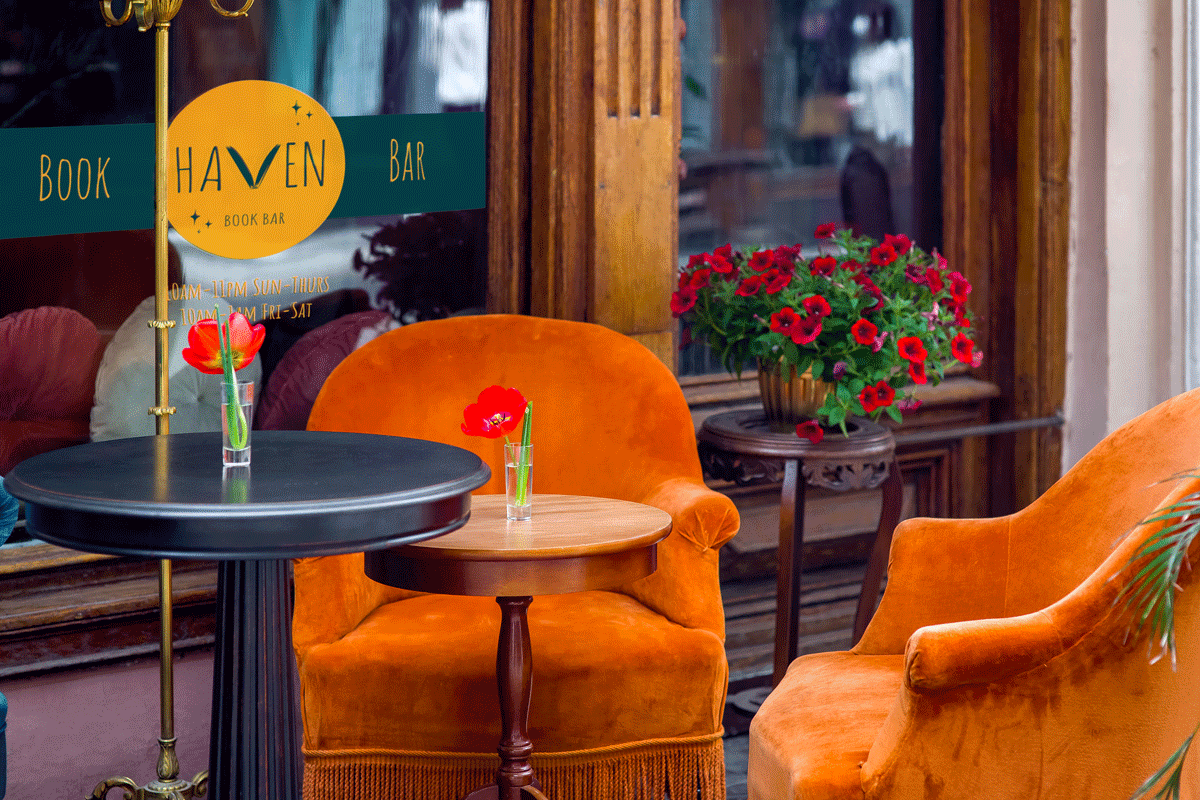
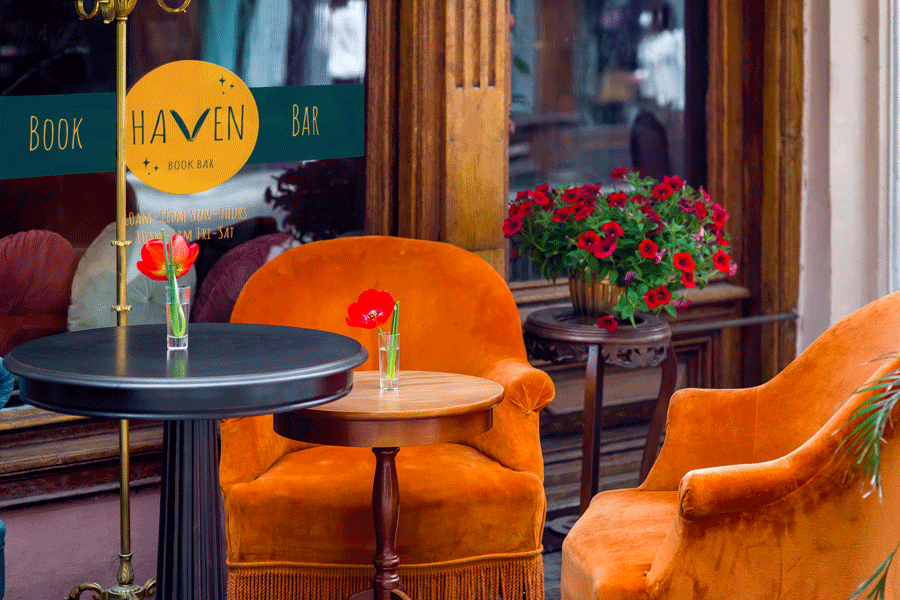
formatting project page

diff --git a/projectpages/haven-page.html b/projectpages/haven-page.html
@@ -2,14 +2,15 @@
 <head>
     <meta charset="UTF-8">
     <meta name="viewport" content="width=device-width, initial-scale=1.0">
-    <link rel="shortcut icon" type="image/png" href="Images/logofavicon.png">
+    <link rel="stylesheet" type="text/css" href="css/normalize.css">
     <link rel="stylesheet" href="merit25.css">
+    <link rel="stylesheet" type="text/css" href="../css/projectpages.css">
+    <link rel="shortcut icon" type="image/png" href="Images/logofavicon.png">
     <link rel="stylesheet" href="https://fonts.googleapis.com/css?family=Amatic SC">
     <title>Haven Environmental Design</title>
 
 </head>
     <body>
-        <div class ="page_container">
         <!--TOP NAV-->
         <div class="head">
             <h1>Emily Morrison Weeks</h1>
@@ -32,8 +33,8 @@
                 }
             }
         </script>
-    <img src="../Images/book bar mood.png" class="responsive">
-    <div class="objective and inspiration">
+    <img src="../Images/book-bar-mood.png" class="responsive">
+    <div class="objectiveandinspiration">
         <h2>Objective and Inspiration</h2>
         <p><strong>WHAT:</strong>Environmental design for a fictional restaurant
         </p>
@@ -44,9 +45,10 @@
             tasked me with creating the branding, signage, and additional assets for a fictional
             restaurant.
         </p>
-             I took my inspiration from a book bar in Madison, WI called Leopold’s Cafe. From
+        <p> I took my inspiration from a book bar in Madison, WI called Leopold’s Cafe. From
              there, I deepened my research, looking at the branding and business models of
             other book bars in cities such as New York and Minneapolis.
+        </p>
         <p>
             I loved the idea of creating a space where introverts and extroverts alike could
             find a cozy reading nook or meet up with friends. My restaurant would serve
@@ -88,10 +90,10 @@
   </div>
   <div class="outcome">
         <h2>Outcome | Signage</h2>
-        <img src="../Images/havenfinalindoorchalkboard.png" alt="indoor chalk board signage for haven" class="responsive">
         <img src="../Images/finalhavenoutdoorchalkboard.png" alt="outdoor chalk board signage for haven" class="responsive">
         <img src="../Images/finalhavenstreetsign.png" alt="outdoorsignage for haven" class="responsive">
         <img src="../Images/glasssignwithchairs.png" alt="glass signage" class="responsive">
+        <img src="../Images/havenfinalindoorchalkboard.png" alt="indoor chalk board signage for haven" class="responsive">
         <p>
             Hanging street signage, outdoor and indoor chalkboard signage, and
             glass window signage were created.
@@ -109,16 +111,18 @@
             books have the pages removed and replaced with menu pages. The covers of the
             books are embossed with the Haven logo.
         </p>
-
-        <img src="../Images/Haven Brunch Menu-1.png" alt="brunch menu for haven" class="responsive">
-        <img src="../Images/Haven Evening Food Menu-1.png" alt="dinner menu for haven" class="responsive">
-        <img src="../Images/Haven Drink Menu-1.png" alt="drink menu for haven" class="responsive">
-        
+        <div class="menus">
+        <img src="../Images/Haven-Brunch-Menu-1.png" alt="brunch menu for haven" class="responsive">
+        <img src="../Images/Haven-Evening-Food-Menu-1.png" alt="dinner menu for haven" class="responsive">
+        <img src="../Images/Haven-Drink-Menu-1.png" alt="drink menu for haven" class="responsive">
+        </div>
         <p>
             The inner pages of the menu feature a watercolor border, a callback to the arts
             and literature heart of the restaurant. Over the watercolor are some gold flecks to
             tie it together with the gilded cover.
         </p>
+
+        <img src="../Images/havencofffee.png" alt="a bag of whole bean coffee with yellow Haven logo on it"class="responsive">
   </div>
    
     

diff --git a/index.html b/index.html
@@ -2,9 +2,9 @@
 <head>
     <meta charset="UTF-8">
     <meta name="viewport" content="width=device-width, initial-scale=1.0">
-    <link href="css/normalize.css" rel="stylesheet">
+    <link rel="stylesheet" type="text/css" href="css/normalize.css">
+    <link rel="stylesheet" href="css/merit25.css">
     <link rel="shortcut icon" type="image/png" href="Images/logofavicon.png">
-    <link rel="stylesheet" href="merit25.css">
     <link rel="stylesheet" href="https://fonts.googleapis.com/css?family=Amatic SC">
     <title>Emily Morrison Weeks</title>
 </head>

diff --git a/css/merit25.css b/css/merit25.css
@@ -8,6 +8,8 @@ h1 {
     font-weight: 700;
     font-style: normal;
       }
+
+
     
 /*main gallery*/
 .page_container{
@@ -36,9 +38,11 @@ h1 {
     filter:grayscale(75%)
 }
 
-/*to make images responsive on project pages*/
+/*for project pages*/
+
 .responsive{
     max-width: 100%;
     height: auto;
 }
+
 

diff --git a/css/projectpages.css b/css/projectpages.css
@@ -1,0 +1,21 @@
+h2{
+    text-align: center;
+}
+
+p{
+    max-width:900px;
+    margin: auto;
+    padding: 2rem;
+}
+
+img{
+    display:block;
+    margin: auto;
+    padding:5px;
+}
+
+.menus{
+    display: flex;
+    flex-wrap: wrap;
+
+}
